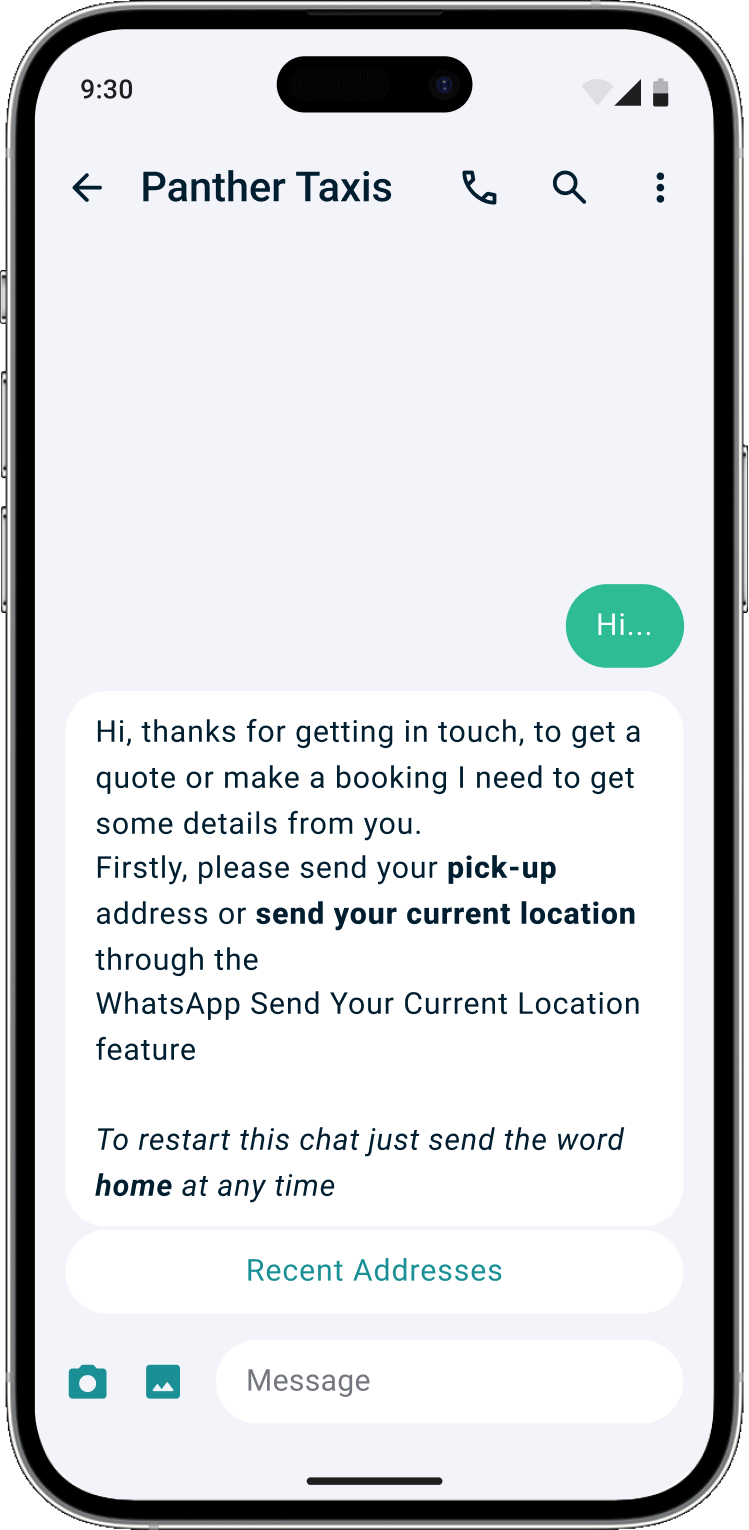
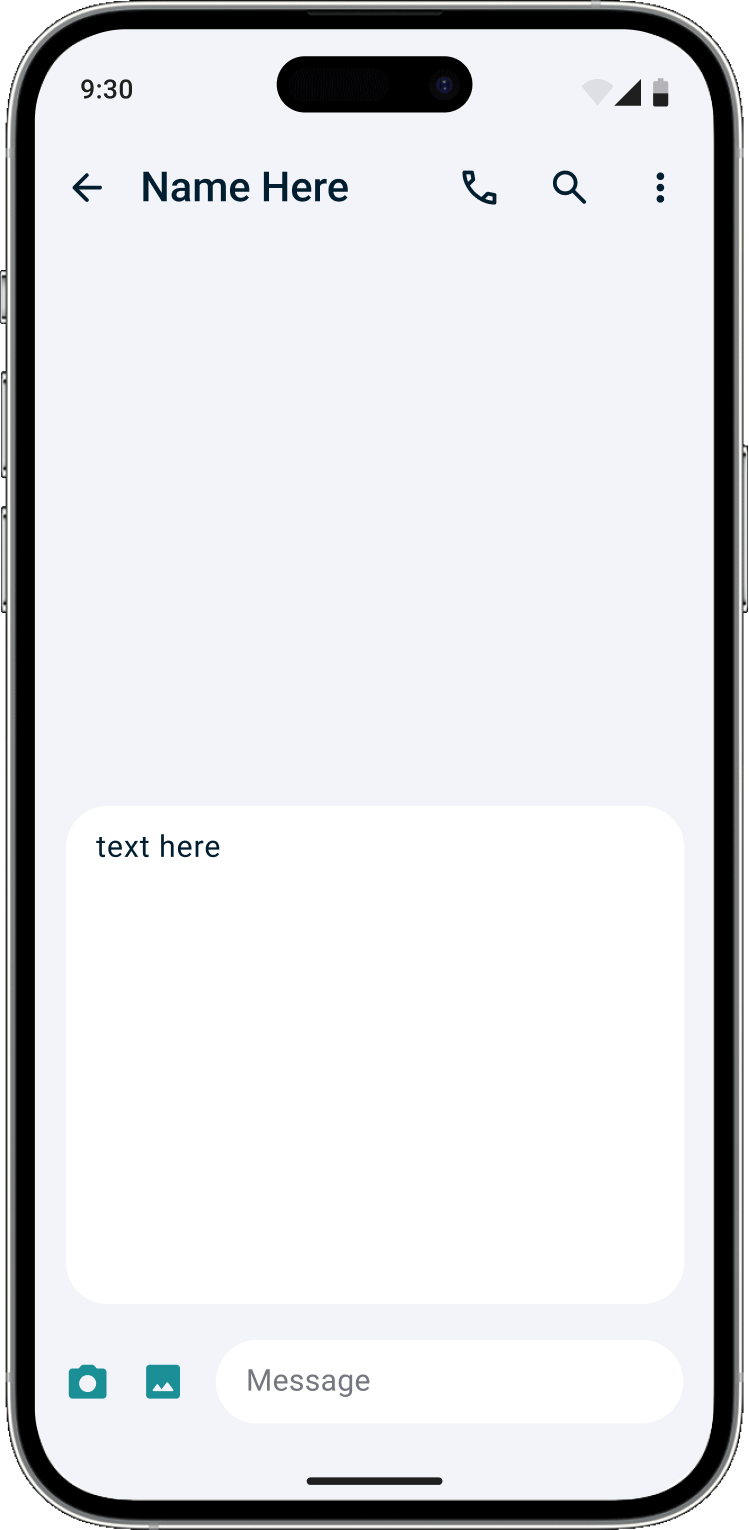
update broadcasts pages

diff --git a/src/app/screens/broadcast-whatsapp/broadcast-whatsapp.component.html b/src/app/screens/broadcast-whatsapp/broadcast-whatsapp.component.html
@@ -83,7 +83,7 @@
                     </div>
                     <div class="inp-con message">
                         <label for="">Message</label>
-                        <textarea placeholder="Type message here"></textarea>
+                        <textarea [(ngModel)]="newBroadcastDesc" placeholder="Type message here"></textarea>
                     </div>
                     <div class="inp-con">
                         <label>Footer <span>Optional</span></label>
@@ -101,7 +101,10 @@
                 </div>
             </div>
             <div class="mobile-con">
-                <img src="../../../assets/w-mobile.png" alt="" class="mobile">
+                <div class="mobile-wrapper">
+                    <img src="../../../assets/w-mobile.png" alt="" class="mobile">
+                    <div class="mobile-text">{{newBroadcastDesc}}</div>
+                </div>
             </div>
         </div>
     </ng-container>

diff --git a/src/app/screens/broadcast-sms/broadcast-sms.component.html b/src/app/screens/broadcast-sms/broadcast-sms.component.html
@@ -67,12 +67,15 @@
                     </div>
                     <div class="inp-con message">
                         <label for="">Message</label>
-                        <textarea placeholder=" Type message here"></textarea>
+                        <textarea [(ngModel)]="newBroadcastDesc" placeholder=" Type message here"></textarea>
                     </div>
                 </div>
             </div>
             <div class="mobile-con">
-                <img src="../../../assets/mobile.png" alt="" class="mobile">
+                <div class="mobile-wrapper">
+                    <img src="../../../assets/mobile.png" alt="" class="mobile">
+                    <div class="mobile-text">{{newBroadcastDesc}}</div>
+                </div>
             </div>
             <div class="contacts">
                 <div class="c-header">

diff --git a/src/app/screens/broadcast-sms/broadcast-sms.component.css b/src/app/screens/broadcast-sms/broadcast-sms.component.css
@@ -594,9 +594,31 @@
     align-items: center;
 }
 
-.mobile {
+.mobile-wrapper {
     width: 60%;
     max-width: 300px;
+    position: relative;
+    container-type: inline-size;
+}
+
+.mobile {
+    width: 100%;
+}
+
+.mobile-wrapper div {
+    background-color: white;
+    position: absolute;
+    bottom: 15.5%;
+    left: 50%;
+    transform: translateX(-50%);
+    font-size: 4cqi;
+    width: 83%;
+    height: 33%;
+    padding: 1rem;
+    border-radius: 1rem;
+    text-wrap: wrap;
+    overflow: auto;
+    line-break: auto;
 }
 
 .badge {

diff --git a/src/app/screens/broadcast-whatsapp/broadcast-whatsapp.component.css b/src/app/screens/broadcast-whatsapp/broadcast-whatsapp.component.css
@@ -267,9 +267,31 @@
     align-items: center;
 }
 
-.mobile {
+.mobile-wrapper {
     width: 60%;
     max-width: 300px;
+    position: relative;
+    container-type: inline-size;
+}
+
+.mobile {
+    width: 100%;
+}
+
+.mobile-wrapper div {
+    background-color: white;
+    position: absolute;
+    bottom: 15.5%;
+    left: 50%;
+    transform: translateX(-50%);
+    font-size: 4cqi;
+    width: 83%;
+    height: 33%;
+    padding: 1rem;
+    border-radius: 1rem;
+    text-wrap: wrap;
+    overflow: auto;
+    line-break: auto;
 }
 
 .badge {

diff --git a/src/app/screens/broadcast-whatsapp/broadcast-whatsapp.component.ts b/src/app/screens/broadcast-whatsapp/broadcast-whatsapp.component.ts
@@ -1,4 +1,4 @@
-import { Component } from '@angular/core';
+import { Component, Input } from '@angular/core';
 
 @Component({
   selector: 'app-broadcast-whatsapp',
@@ -85,4 +85,5 @@ export class BroadcastWhatsappComponent {
   showTemplates = false;
   addMode = false;
   showDateAndTimeModal = false;
+  @Input() newBroadcastDesc = ""
 }

diff --git a/src/app/screens/broadcast-sms/broadcast-sms.component.ts b/src/app/screens/broadcast-sms/broadcast-sms.component.ts
@@ -1,4 +1,4 @@
-import { Component } from '@angular/core';
+import { Component, Input } from '@angular/core';
 
 @Component({
   selector: 'app-broadcast-sms',
@@ -51,4 +51,5 @@ export class BroadcastSmsComponent {
 
   addMode = false;
   showDateAndTimeModal = false;
+  @Input() newBroadcastDesc = ""
 }
